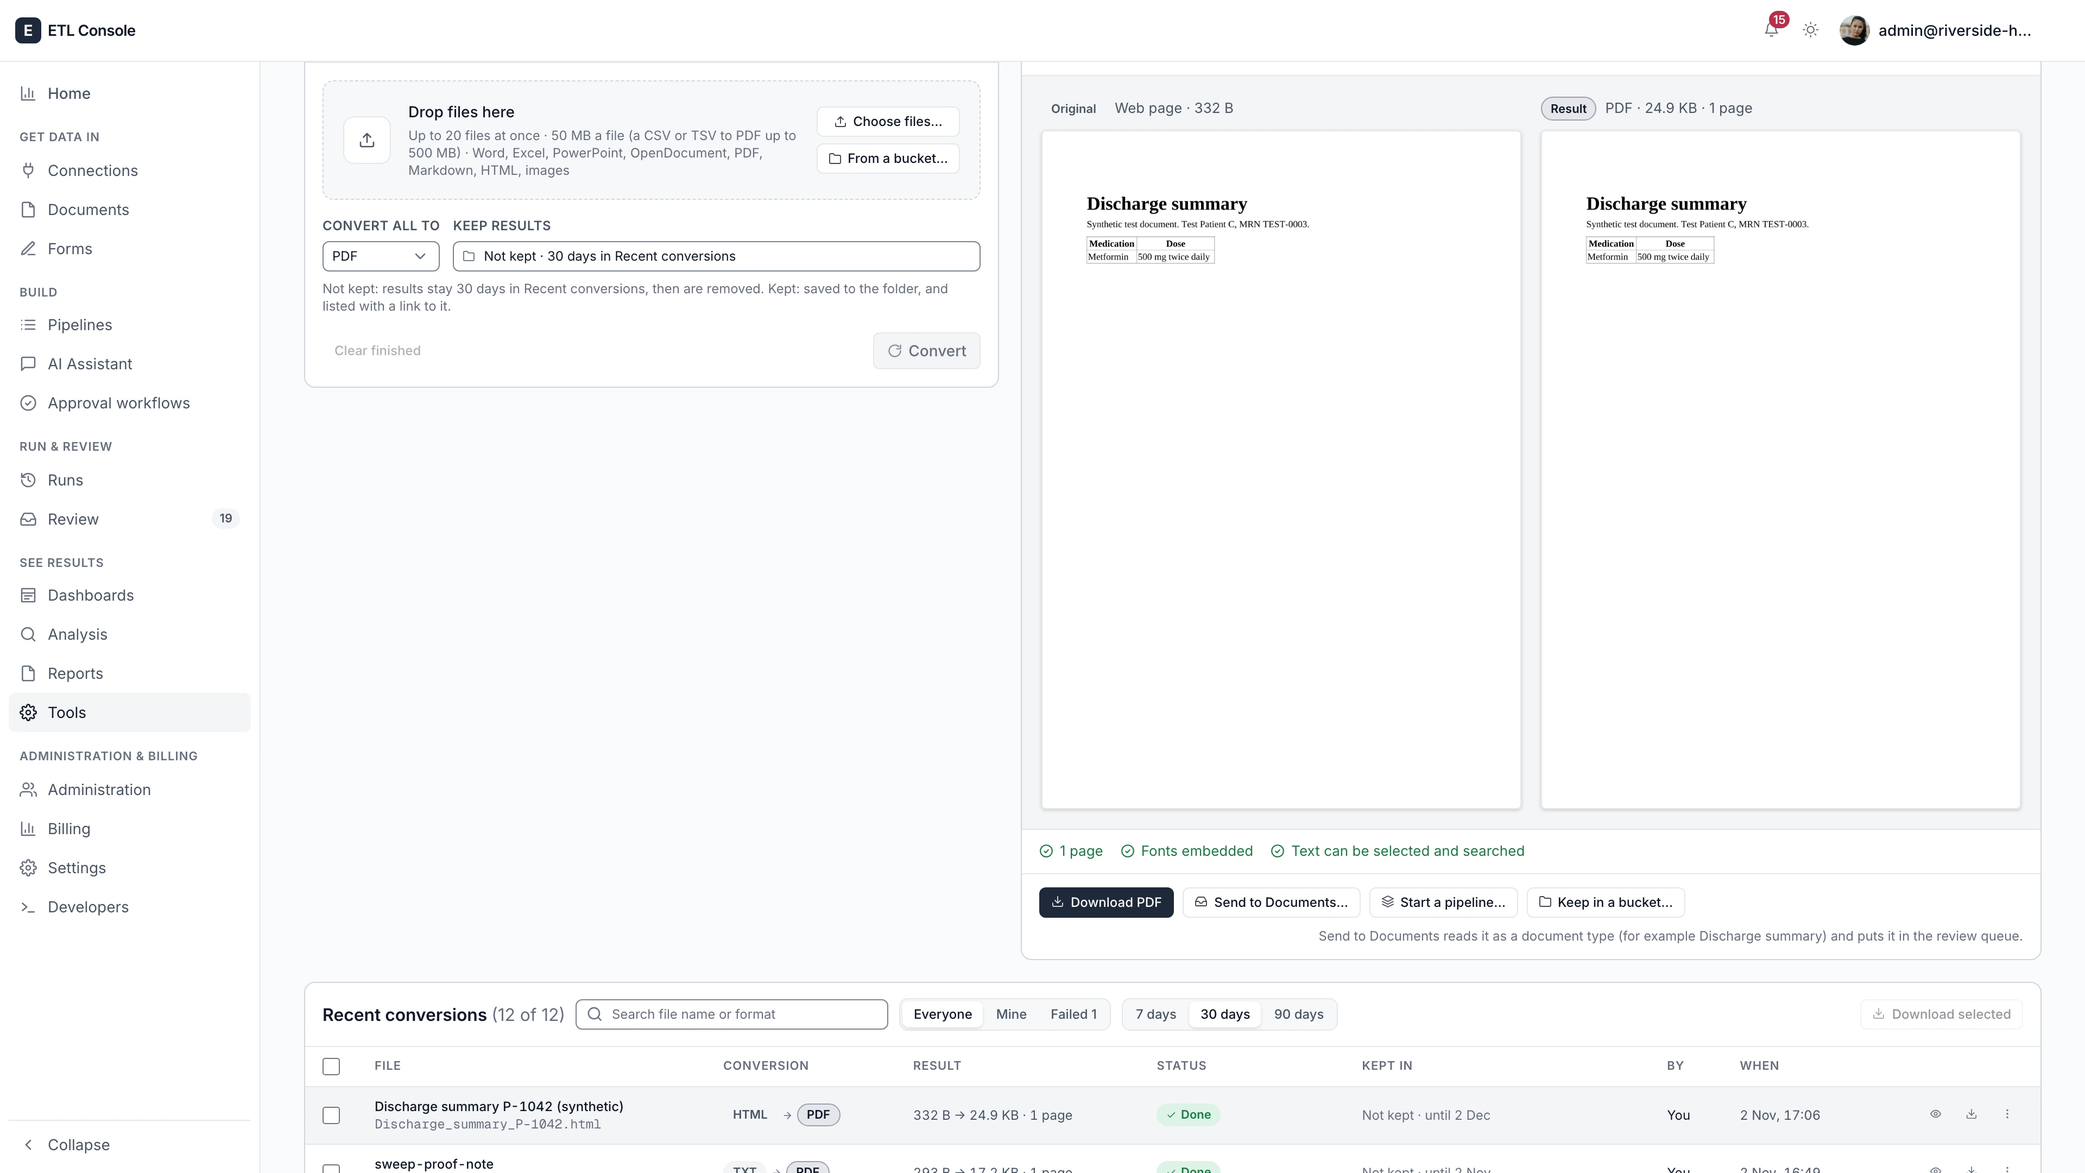
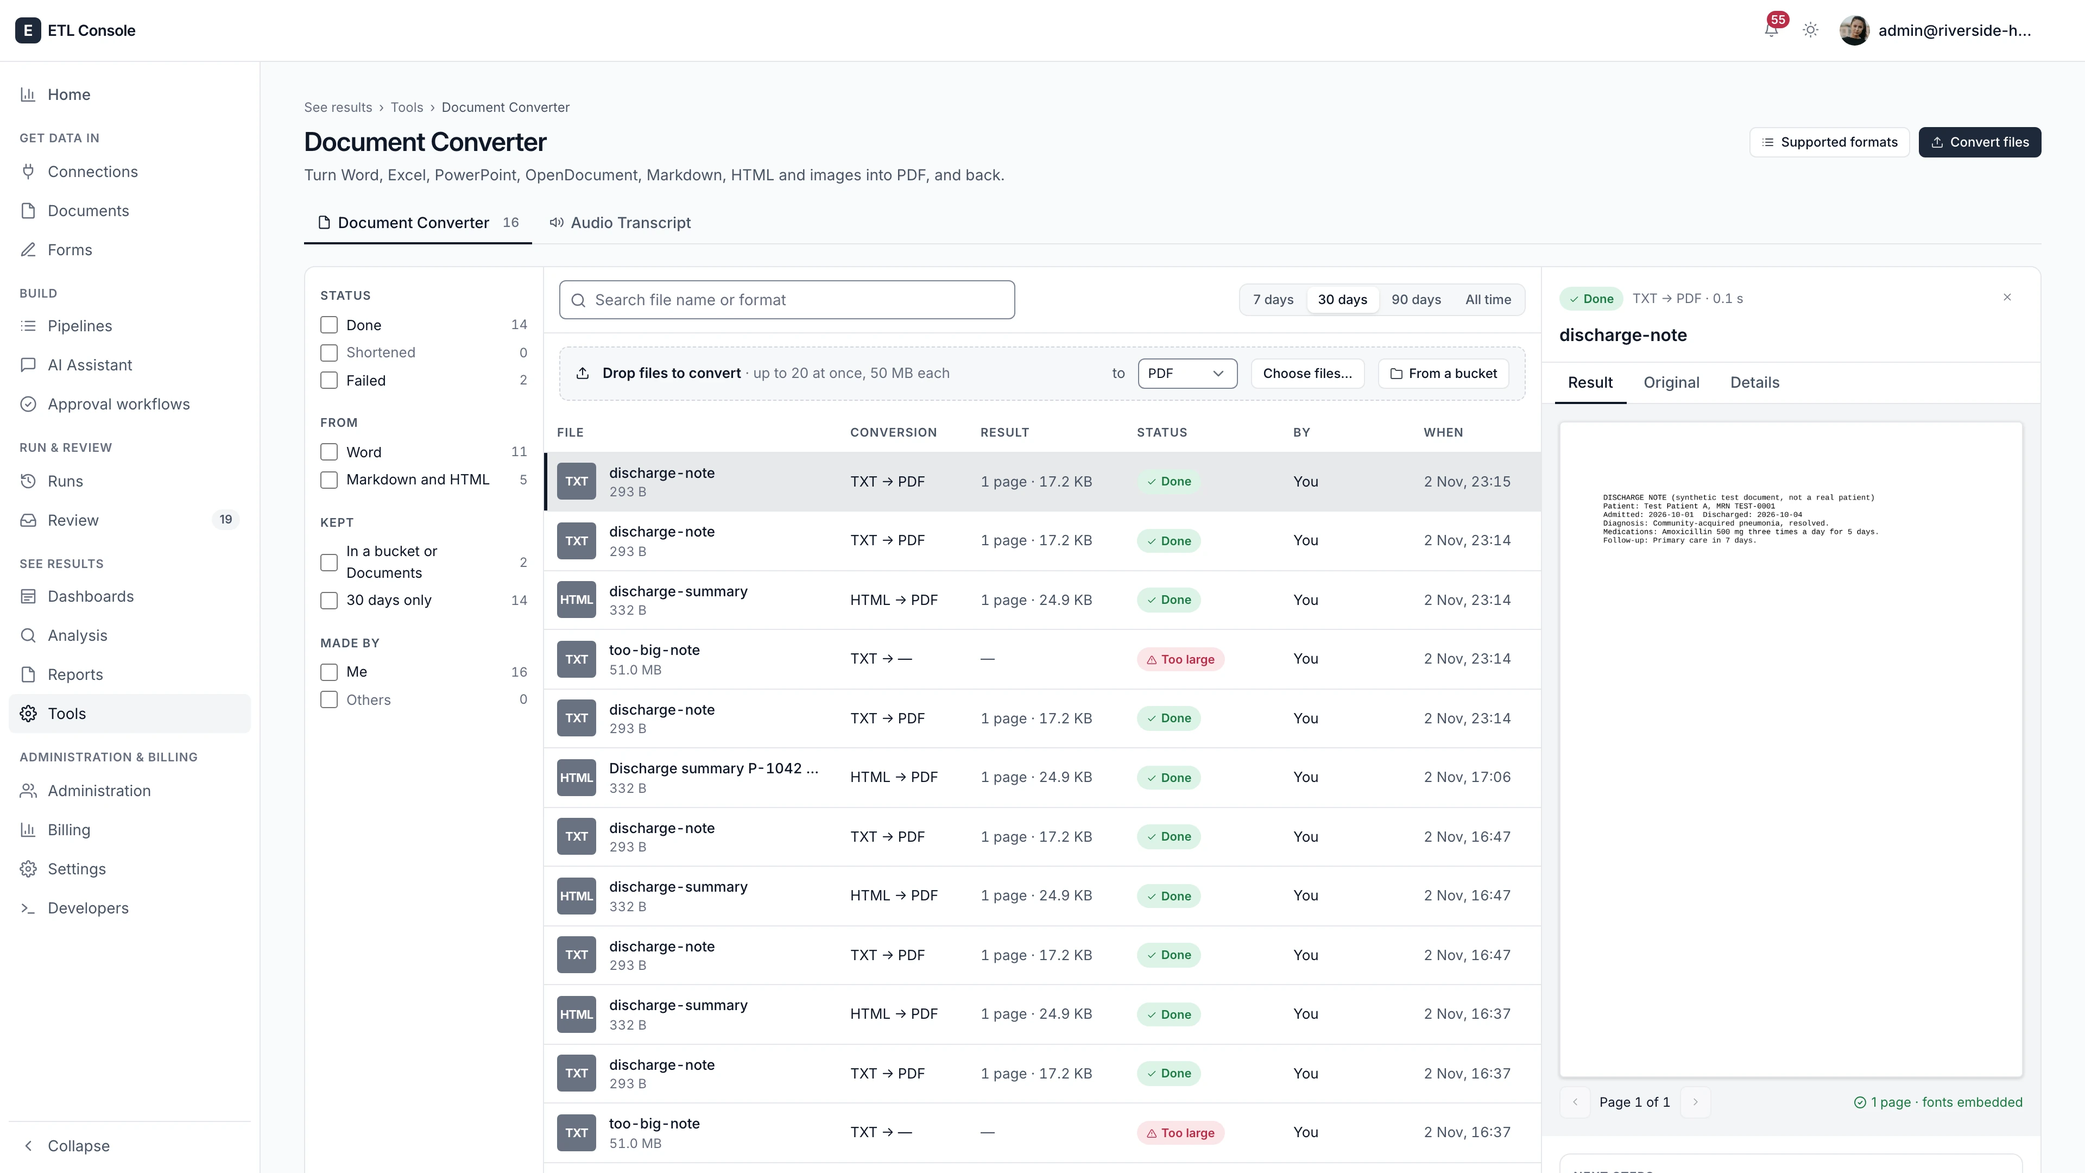
Help: Document Converter and Audio Transcript as Option A -- the history with facets, the drop strip and the side panel; Transcribe recordings over the list (speakers found, one, or exactly 2 to 6); the list's facets and panel; a transcript's own page (?id=: the player row, search with folded stretc

diff --git a/next/src/app/features/tools/transcript/transcript-page.html b/next/src/app/features/tools/transcript/transcript-page.html
@@ -235,7 +235,7 @@
                         <td class="tp-c-time"><button type="button" class="tlink" [class.tlink-now]="now" (click)="playFrom(s)" [attr.aria-label]="'Play from ' + clock(s.startMs / 1000)">
                           <app-icon [name]="now && playback.playing() ? 'pause' : 'play'" size="0.8em" />{{ clock(s.startMs / 1000) }}</button></td>
                         @if (speakers().length) {
-                          <td class="tp-c-spk">@if (s.speaker != null) { <span class="spk"><span [class]="'dot ' + tone(s.speaker)"></span><span class="truncate">{{ speakerName(s.speaker) }}</span></span> }</td>
+                          <td class="tp-c-spk">@if (s.speaker != null) { <span class="spk"><span [class]="'dot ' + tone(s.speaker)"></span><span class="truncate" [title]="speakerName(s.speaker)">{{ speakerName(s.speaker) }}</span></span> }</td>
                         }
                         <td class="tp-txt">
                           @if (editing()) {

diff --git a/next/src/app/features/tools/tools-explorer.css b/next/src/app/features/tools/tools-explorer.css
@@ -28,6 +28,8 @@
   border-top: 1px solid var(--border-subtle); font-size: 0.75rem; color: var(--text-muted); }
 .tx-pager { display: inline-flex; align-items: center; gap: 0.375rem; margin-left: auto; color: var(--text-secondary); }
 
+/* A very wide screen gives the panel's page more room. */
+@media (min-width: 2200px) { .tx.tx-panel-on { grid-template-columns: 15rem minmax(0, 1fr) 36rem; } }
 @media (max-width: 1499px) {
   .tx { grid-template-columns: 12.5rem minmax(0, 1fr); }
   .tx.tx-panel-on { grid-template-columns: 12.5rem minmax(0, 1fr) 25rem; }

diff --git a/next/help/dashboards/08-tools.md b/next/help/dashboards/08-tools.md
@@ -11,75 +11,103 @@ The two tools do by hand what a pipeline's steps do for many files: the **Docume
 **Audio Transcript** turns recordings into text, the same way a scheduled run does it. Both keep what they made, so
 nothing is lost when you leave the page, and both are billed like the steps they stand in for.
 
+Both pages work like the Report library: **facets** on the left with their counts (tick one or more to narrow the list),
+one **search**, a window of **7 days**, **30 days**, **90 days** or **All time**, and the list itself. Choosing a row opens
+its **side panel** on the right; **×** closes it. Under 1180 px the facets sit behind **Filters** and the panel lies over
+the list.
+
 ## Convert documents
-1. Open **See results › Tools › Document Converter**.
-2. Drop up to 20 files on **Drop files here**, or **Choose files…**, or pick one **From a bucket…**. Each file gets a row
-   with its type, its size and the format it becomes. A file the converter does not read (a recording, an archive) is
-   said at once, with where to go instead.
-3. Pick the format per file, or for every waiting file with **Convert all to**.
-4. Optionally, under **Keep results**, choose a bucket and a folder (for example `converted/2026-11/`). Not kept, a
-   result stays 30 days in **Recent conversions** and is then removed.
-5. Choose **Convert N waiting files**. Two convert at a time; the others wait their turn. If the converter is busy a file
-   waits and is sent again by itself.
+1. Open **See results › Tools › Document Converter**. The page is the conversion history.
+2. Drop up to 20 files anywhere on the page (50 MB each), or use **Convert files** or **Choose files…** in the strip
+   above the list, or **From a bucket**. They convert at once, two at a time, to the format in the strip's **to** (PDF
+   unless you pick another; a PDF dropped "to PDF" becomes a Word file).
+3. Each file appears at the top of the list with its progress (**Converting 70%**), then as **Done**. A file the
+   converter does not read (a recording, an archive) is marked **Not supported**; choose it to see why and where to go
+   instead. If the converter is busy a file shows **Converter busy** and is sent again by itself.
+
+The list shows each file with its type and size, the conversion (`DOCX → PDF`), the result (`3 pages · 212 KB`), its
+status, who converted it and when. Narrow it with **Status** (Done, Converting, Shortened, Failed), **From** (Word, Excel
+and CSV, PowerPoint, PDF, Images, Markdown and HTML), **Kept** (In a bucket or Documents, 30 days only) and **Made by**
+(Me, Others), or search a file name or format. A result not kept stays 30 days, then is removed.
 
 A failure is said in plain words with what to do next: **Too large to convert** names the limit and suggests splitting
 the file; **Protected with a password** says how to remove the password and drop the file again.
 
-![Document Converter](dash-converter "Document Converter: the queue on the left, the result beside its original on the right, and Recent conversions")
+![Document Converter](dash-converter "Document Converter: facets, the drop strip and the history, with a conversion open in the side panel")
 
 ## Check a result and use it
-Choose a finished file in the queue (or the eye in **Recent conversions**). The result opens beside its original,
-**Side by side** or **Result only**, page by page, with the converter's checks underneath: the pages as in the original,
-the fonts embedded, a font that was replaced (for example Calibri by Carlito, which has the same widths), and whether the
-text can be selected and searched. Then:
+Choose a conversion. The side panel shows its status and `DOCX → PDF · 3.1 s`, then three tabs:
 
-- **Download** the result;
-- **Send to Documents…** reads a PDF or an image as a document type (for example a discharge summary) and puts it in the
-  review queue; offered to people who can open Documents;
-- **Start a pipeline…** keeps the result in a bucket first if it is not, then opens the AI Assistant with the file named;
-- **Keep in a bucket…** saves it to a folder you choose.
+- **Result**: the converted file page by page (**Page 1 of 3**), with the converter's checks on one line (the pages as in
+  the original, the fonts embedded; a font that was replaced, for example Calibri by Carlito, is said apart);
+- **Original**: the file you dropped, page by page;
+- **Details**: both files, sizes and pages, how long it took, who converted it, how long it is kept, and every check.
 
-**Recent conversions** lists every conversion of the last 7, 30 or 90 days, failed ones too, with where each was kept.
-Filter by **Everyone**, **Mine** or **Failed**, search by file name or format, and tick rows for **Download selected**
-(one zip). **Supported formats** opens a side sheet with each family's formats and a search (type `.vsdx`).
+**Next steps**: **Download** the result; **Send to Documents** reads a PDF or an image as a document type (for example a
+discharge summary) and puts it in the review queue (offered to people who can open Documents); **Start a pipeline** keeps
+the result in a bucket first if it is not, then opens the AI Assistant with the file named; under **⋮**, **Keep in a
+bucket…** saves it to a folder you choose, and **Delete** removes it now. The line underneath says until when it is kept,
+or the bucket folder it is in. **Supported formats** (top right) opens a side sheet with each family's formats and a
+search (type `.vsdx`).
 
 > **Note:** A PDF made from a dataset or from a run is a report, not a file conversion: make it from
 > **Reports › From pipelines** with **PDF from a dataset or a run**.
 
 ## Turn a recording into text
-1. Open **See results › Tools › Audio Transcript** and choose **New transcript**.
-2. Drop one or more recordings (.mp3, .m4a, .wav or .ogg), or pick one **From a bucket…**. The length of each is read
-   from the file before it is uploaded.
-3. Give it a **Name**. **Language** is detected in each part of the recording. **Speakers** labels who said what where
-   speaker detection is installed; otherwise the page says so and the transcript is one stream of text.
+1. Open **See results › Tools › Audio Transcript** and choose **Transcribe recordings**, or drop recordings anywhere on
+   the page. The new transcript opens over the list.
+2. Add one or more recordings (.mp3, .m4a, .wav or .ogg), or pick one **From a bucket…**. The length of each is read from
+   the file before it is uploaded. A file that is not a recording is said at the top, with the Document Converter.
+3. Give it a **Name**. **Language** is detected in each part of the recording. **Speakers**: **Detect speakers (2–6)**,
+   **One speaker** for a dictation, or **Exactly 2** to **6** when you know how many talk (where speaker labels are
+   installed; otherwise the panel says so and the transcript is one stream of text).
 4. Choose whether to **Keep the recording 30 days for playback**, **Mask personal details in exports**, and **Send to
    Documents as a visit note when done**.
-5. The page says about how long it takes and how many audio minutes are billed. Choose **Transcribe**.
+5. The panel says about how long it takes and how many audio minutes are billed. Choose **Transcribe**.
 
-The recording is transcribed on the server: the card shows its stages (**Uploaded**, **Speech found**, **Transcribing**,
-**Ready**), how much has been heard, the time left and the text heard so far. You can leave the page; it keeps going, and
-the recording is in the **Recordings** list when you come back. **Stop** stops it, and nothing is billed.
+The recording is transcribed on the server. It appears in the list with its progress (**46%**), and its side panel shows
+the stages (**Uploaded**, **Speech found**, **Transcribing**, **Ready**), how much has been heard and the time left. You
+can leave the page; it keeps going. **Stop** stops it, and nothing is billed.
 
-![New transcript](dash-transcript-new "Audio Transcript: a new transcript, one in progress, and what could not be transcribed")
+![New transcript](dash-transcript-new "Audio Transcript: Transcribe recordings, over the list")
 
-## Play back, search and use a transcript
-Choose a recording in **Recordings** (search names and what was said; **Everyone**, **Mine**, **Failed**).
+## Find a recording
+The list shows each recording's name and file, its length, its speakers as coloured dots, its status, who made it and
+when. Narrow it with **Status** (Done, Transcribing, Failed), **Made by** (Me, Others), **Speakers** (One, Two, Three to
+six) and **Language** (English, Spanish, …), or **Search names and what was said**.
 
-- The player shows the recording's waveform; **Space** plays and pauses, **J** and **L** go back and forward 5 seconds,
-  **/** jumps to the search, and the speed goes from 0.75× to 2×.
-- Each part of the transcript has its time; choose it to play from there. With **Follow playback** on, the part being
-  played is highlighted and kept in view.
-- **Search what was said** shows `3 of 7` with next and previous, and marks each match on the waveform.
-- **Transcript**, **Table** and **Plain text** show the same words three ways. **Correct text** lets you fix a word;
-  corrections are kept as a new version and the original stays.
-- **Use this transcript**: **Download** as text with times, subtitles (.vtt or .srt), JSON or a printable PDF; **Send to
-  Documents as a visit note…**; **Start a pipeline…**; **Copy text**.
-- **Speakers** (where installed): name each speaker once ("Speaker 1" → "Alex Morgan, RN") and every export uses the
-  name; merge two speakers who are one person.
-- **Personal details heard** counts the names, dates of birth and phone numbers heard. Turn on **Mask in exports** to
-  replace them with [NAME], [DOB] and [PHONE] in every download.
+Choose a recording: the side panel shows `18:42 · English · 3 speakers`, a compact player with one track coloured by
+speaker, the first lines of the transcript (choose a time to play from there), its **Speakers** and **Details**, and
+**Next steps**: **Open transcript**, **Download**, **Send to Documents**, and under **⋮** **Start a pipeline…**, **Copy
+text**, **Transcribe again…** and **Delete recording**.
 
-![Audio Transcript](dash-transcript "Audio Transcript: the recordings, the player and the transcript with search, and how to use it")
+![Audio Transcript](dash-transcript "Audio Transcript: facets and the recordings, with one open in the side panel")
+
+## A transcript's own page
+**Open transcript** opens the recording's page (`/tools/transcript?id=…`, a link you can keep and share with people of
+your workspace). The breadcrumb leads back to the list. Under the name and its status: the length, language, speakers,
+when and by whom it was transcribed, and the file. **Download** gives text with times, a printable PDF, subtitles (.vtt or
+.srt) or JSON; **Send to Documents** sends it as a visit note.
+
+- **Transcript**: one player row stays at the top as you scroll: play and pause, the time, one track coloured by speaker
+  with the search's matches marked above it (choose a place on it to go there), and the speed (0.75× to 2×). The table
+  below has **Time** (choose it to play from there), **Speaker** and **What was said**; the row being played is
+  highlighted, and with **Follow playback** on it is kept in view. **Space** plays and pauses, **J** and **L** go back
+  and forward 5 seconds, **/** jumps to the search.
+- **Search what was said** shows `3 of 7` with next and previous; the current match is marked stronger, and long
+  stretches without a match fold into one line (`32 segments · 00:41 – 05:44 show`).
+- **All speakers** shows one speaker's words, whether there are two speakers or six.
+- **Speakers**: name each speaker once ("Speaker 1" → "Alex Morgan, RN") and every export uses the name; each one's talk
+  time; merge two speakers who are one person.
+- **Details**: the file, length, language, model, how long it took, the audio minutes billed, who made it, how long the
+  recording and the transcript are kept, and **Mask in exports**: the names, dates of birth and phone numbers heard are
+  then replaced with [NAME], [DOB] and [PHONE] in every download.
+- Under **⋮**: **Correct text** (corrections are kept as a new version and the original stays), **Show as plain text**,
+  **Copy text**, masking, **Keep in a bucket…**, **Start a pipeline…**, **Transcribe again…** with another number of
+  speakers (corrections and names go with the old transcript; the new one is billed once), **Delete recording**, and the
+  keyboard keys.
+
+![A transcript's page](dash-transcript-page "A transcript's own page: the player row, a search with its matches, and the table of what was said")
 
 ### When a recording cannot be transcribed
 Each failure says why and what to do next: **too long** (up to 30 minutes; **Split at 30 min** makes parts that are
@@ -87,7 +115,7 @@ transcribed one by one), **no speech heard** (**Choose another**), **the transcr
 by itself), and **not a recording** (a Word file goes to the Document Converter).
 
 ## Limits
-The **Limits** button and **What it takes** show this platform's limits; when this was written they were:
+The drop strip and **Transcribe recordings** say this platform's limits; when this was written they were:
 
 | What | Limit |
 |---|---|
@@ -108,6 +136,7 @@ minute of audio (see [How usage is counted](#bill-usage)).
 
 ## Example
 Greta Fischer in health information at Summit Valley Health System receives a referral packet of four files. She drops
-them together, converts them to PDF, checks the discharge letter beside its original (its table kept its columns), and
-sends it to Documents. Later she transcribes a 6-minute care call, searches it for "dressing", and downloads the
-transcript with personal details masked for the care team's meeting.
+them on the Document Converter, chooses the discharge letter in the list, checks its result beside the original (its
+table kept its columns), and sends it to Documents. Later she transcribes a 6-minute care call with exactly 2 speakers,
+opens its page, searches it for "dressing", plays the nurse's advice from its time, and downloads the transcript with
+personal details masked for the care team's meeting.

diff --git a/next/help/ai/04-transcription.md b/next/help/ai/04-transcription.md
@@ -12,20 +12,24 @@ in a pipeline and on the tool page. A pipeline can then summarise the text with 
 report for each call, or search it in Ask your data.
 
 ## Transcribe recordings by hand
-1. Open **See results › Tools › Audio Transcript** and choose **New transcript**.
-2. Drop one or more recordings (.mp3, .m4a, .wav or .ogg), or pick one **From a bucket…**. Each recording's length is read
-   before it is uploaded, and the page says about how long it takes and how many audio minutes are billed.
-3. Choose **Transcribe**. It runs on the server: the card shows how much has been heard and the time left, and you can
-   leave the page.
-4. When it is ready, play it back with the transcript beside it: each part has its time, search marks every match on
-   the waveform, and **Use this transcript** downloads it (text, subtitles, JSON or PDF), sends it to Documents as a visit
-   note, or starts a pipeline with it.
+1. Open **See results › Tools › Audio Transcript** and choose **Transcribe recordings** (or drop recordings anywhere on
+   the page).
+2. Add one or more recordings (.mp3, .m4a, .wav or .ogg), or pick one **From a bucket…**. Each recording's length is read
+   before it is uploaded, and the panel says about how long it takes and how many audio minutes are billed. **Speakers**
+   finds 2 to 6 by itself, or takes **One speaker** or **Exactly 2** to **6**.
+3. Choose **Transcribe**. It runs on the server: the recording shows its progress in the list, and you can leave the
+   page.
+4. When it is ready, choose it in the list for a side panel with a compact player and the first lines, or **Open
+   transcript** for its own page: one player row, the transcript as a table (choose a time to play from there), search
+   with every match marked on the track, one **All speakers** filter, and **Download** (text, subtitles, JSON or PDF),
+   **Send to Documents** as a visit note, or **Start a pipeline** with it.
 
-Every recording of the last 30 days is listed under **Recordings**; the transcripts stay until you delete them (or your
-workspace's retention removes them), and the recording itself is kept 30 days for playback if you chose to keep it. See
-[Tools: Document Converter and Audio Transcript](#dash-tools) for the player, speakers and masking.
+The list shows the recordings of the last 7, 30 or 90 days, or all of them, with facets for status, who made them,
+speakers and language; the transcripts stay until you delete them (or your workspace's retention removes them), and the
+recording itself is kept 30 days for playback if you chose to keep it. See
+[Tools: Document Converter and Audio Transcript](#dash-tools) for the page, speakers and masking.
 
-![The Audio Transcript tool](ai-transcript "See results › Tools › Audio Transcript: a finished recording with the player, the transcript and how to use it")
+![The Audio Transcript tool](ai-transcript "See results › Tools › Audio Transcript: the recordings, with a finished one open in the side panel")
 
 ## Transcribe in a pipeline
 1. In the pipeline's **Steps**, add **Transcribe audio** from **Add step from the Task Registry…**.
